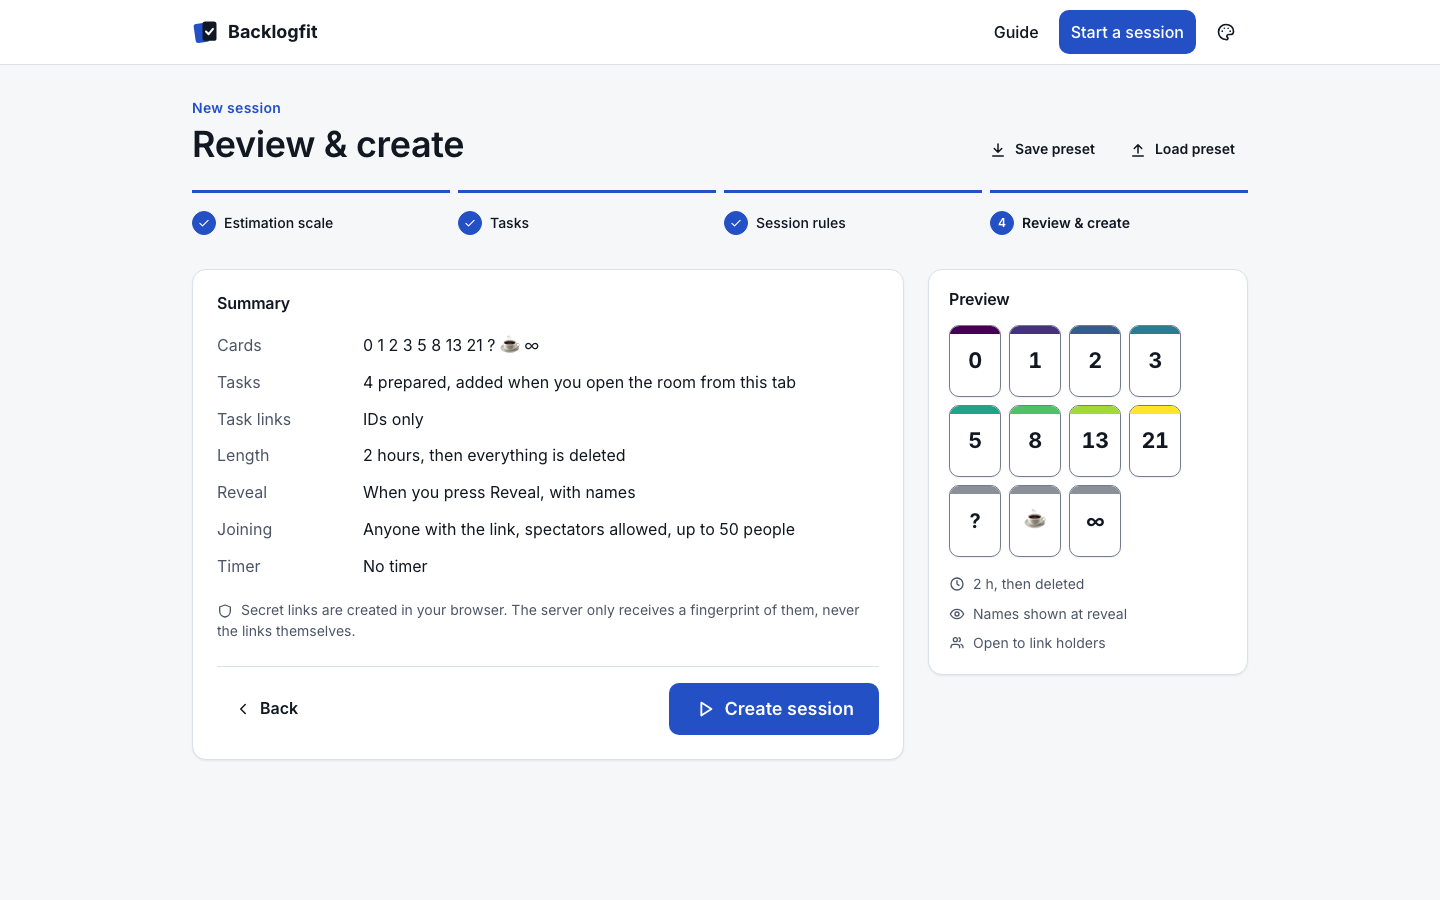
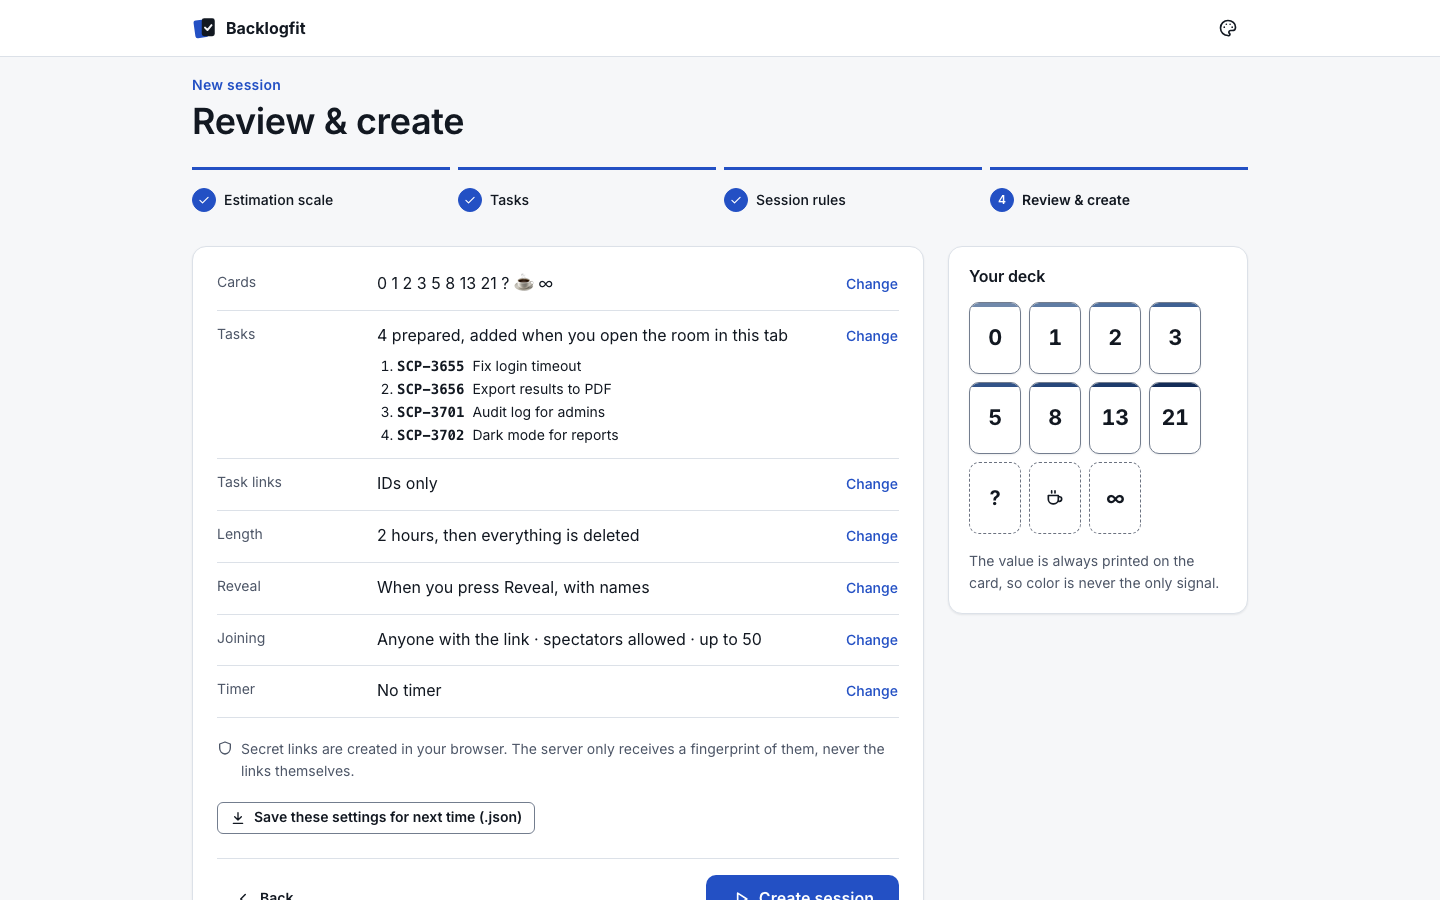
docs: refresh screenshots and the Manager Guide for the new room

diff --git a/apps/web/src/lib/components/RevealPanel.svelte b/apps/web/src/lib/components/RevealPanel.svelte
@@ -176,6 +176,7 @@
 
   .group {
     display: grid;
+    align-content: start;
     justify-items: center;
     gap: var(--space-2);
     max-width: 10rem;
@@ -238,15 +239,15 @@
   }
 
   .cards li.group:nth-child(2) :global(.inner) {
-    transition-delay: 40ms;
+    transition-delay: calc(40ms * var(--lift));
   }
 
   .cards li.group:nth-child(3) :global(.inner) {
-    transition-delay: 80ms;
+    transition-delay: calc(80ms * var(--lift));
   }
 
   .cards li.group:nth-child(n + 4) :global(.inner) {
-    transition-delay: 120ms;
+    transition-delay: calc(120ms * var(--lift));
   }
 
   .grid {

diff --git a/docs/MANAGER-GUIDE.md b/docs/MANAGER-GUIDE.md
@@ -1,6 +1,6 @@
 # Backlogfit Manager Guide
 
-*One page for facilitators: Scrum Masters, team leads, product owners. Print-friendly.*
+*One page for hosts: Scrum Masters, team leads, product owners. Print-friendly.*
 
 ## What are story points?
 
@@ -23,28 +23,36 @@ understand an item differently, which is the most valuable outcome of the discus
 2. **Start a session and pick a scale.** Open Backlogfit and choose **Start a session**. Pick a
    deck: Fibonacci is a good default, T-shirt sizes suit rough roadmap sizing.
 3. **Paste the tasks and set the session rules.** In the **Tasks** step, paste the list from
-   step 1 and drag it into the order you want to discuss it. Under **Task IDs and links** you can
-   choose how tasks may appear (IDs only, any links, or only your own tracker domains). Then set
-   the session length, timer, automatic reveal, anonymous
-   results, spectators, approval before joining, and an optional passcode. Review and press
-   **Create session**. You can save these settings as a preset file for next time.
+   step 1. Every line becomes a task right away; drag them into the order you want to discuss
+   them, and fix or remove any line marked in red. Under **Task IDs and links** you can choose how
+   tasks may appear (IDs only, any links, or only your own tracker domains). Then set the
+   session length, automatic reveal and anonymous results. **More options** holds approval
+   before joining, a passcode, spectators, the maximum number of people, the round timer and the
+   color style. On the review page, **Change** takes you back to any step; press **Create
+   session**. **Save these settings for next time** downloads them as a file, and **Use settings
+   from a file…** on the first step loads it again.
 4. **Keep the host link.** Backlogfit shows it once. Keep it private: it gives full control of the
-   session and lets you switch devices.
+   session and lets you switch devices. **Save host link as a file** keeps a copy on your
+   computer.
 5. **Share the join link.** Paste it in the meeting chat or show the QR code. People enter a
-   display name and join as voters or spectators. Then **Open the room**.
-6. **Introduce the first item.** Your prepared list is already in the room. Press **Start first
-   task**; the product owner explains it in two minutes; optionally start the timer. **Next task**
-   follows your order and skips items that already have an estimate. To change course, press ▶
-   next to any task, drag tasks into a new order, or use **Add and estimate now** for an item
-   that comes up in the discussion.
+   display name and join as voters or spectators. Then **Open the room** in the same browser tab:
+   your prepared tasks are added when the room opens there, and a message confirms it.
+6. **Introduce the first item.** Your prepared list is already in the room. Press **Start
+   estimating**; the product owner explains the item in two minutes. Tasks are estimated top to
+   bottom and items that already have an estimate are skipped. To change course, press ▶ next to
+   any task, drag tasks into a new order, or use **Add and estimate now** for an item that comes
+   up in the discussion. The **⋯** menu next to **Reveal votes** starts the timer, restarts the
+   round or skips the task.
 7. **Vote.** Everyone picks a card. You see *who* has voted, never *what*, until the reveal.
 8. **Reveal.** Press **Reveal votes** (or let automatic reveal do it when everyone has voted).
    Look at the distribution, median and agreement indicator.
-9. **Discuss and vote again if needed.** If votes are split, ask the highest and lowest voters to
-   explain, then press **Vote again**; earlier rounds stay in the results.
+9. **Discuss and vote again if needed.** If the votes differ, ask the highest and lowest voter
+   why, then press **Vote again**; earlier rounds stay in the results.
 10. **Record the final estimate and move on.** Pick the final value (the suggestion is
-    preselected), press **Next task**, and at the end download the results as CSV, JSON or
-    Markdown, copy the summary, or print. Press **End session** when you are done; all its data is deleted.
+    preselected) and press **Save 5 and continue**: it saves the estimate and opens the next
+    task. At the end, use **Export** to download the results as CSV, Markdown or JSON, copy the
+    summary, or print. When you are done, open **Session settings…** and choose **End session
+    for everyone**; all its data is deleted.
 
 | Step 1: scale | Step 2: tasks |
 |---|---|
@@ -56,13 +64,13 @@ understand an item differently, which is the most valuable outcome of the discus
 
 ![Session ready: join link, private host link and QR code](assets/screenshots/configurator-created.png)
 
-![Host view while voting: Reveal votes, Clear votes, Next task, timer, people who voted and the task list](assets/screenshots/admin-voting.png)
+![Host view while voting: who has voted, Reveal votes, the More actions menu, people and the task list](assets/screenshots/admin-voting.png)
 
-![Voter view after the reveal: median, distribution, agreement and the results table](assets/screenshots/reveal.png)
+![Voter view after the reveal: the cards sorted by value, median, average, range and distribution](assets/screenshots/reveal.png)
 
-![Host view after the reveal: Vote again, Next task and the final estimate picker](assets/screenshots/admin-reveal.png)
+![Host view after the reveal: the final estimate picker, Vote again and Save and continue](assets/screenshots/admin-reveal.png)
 
-![Host view with a final estimate recorded, the results table, downloads and session controls (invite, lock, add an hour, settings, end session)](assets/screenshots/results-full.png)
+![Host view with final estimates recorded, the results table with the Export menu, and the session panel (end time, +1 hour, session settings)](assets/screenshots/results-full.png)
 
 ## Tips
 
@@ -105,6 +113,7 @@ in the room, or only the distribution if anonymous reveal is on.
 Create a new room; it takes a minute.
 
 **How long can a session run?** Up to the lifetime you chose (default 2 hours, maximum 8);
-extend it from the facilitator menu. Rooms close after 30 minutes without activity.
+add an hour with **+1 hour** in the Session panel. Lock the session and end it from **Session
+settings…**. Rooms close after 30 minutes without activity.
 
 More answers: [FAQ](FAQ.md).

diff --git a/README.md b/README.md
@@ -21,9 +21,9 @@ with one container.
 |---|---|
 | ![A voter choosing a card from the Fibonacci deck while the participant list shows who has voted](docs/assets/screenshots/voter.png) | ![Revealed votes with distribution, median and consensus indicator](docs/assets/screenshots/reveal.png) |
 
-| Room created | Facilitator controls |
+| Room created | Host controls |
 |---|---|
-| ![A newly created room showing the join link, the one-time admin link and a QR code](docs/assets/screenshots/configurator-created.png) | ![The facilitator view while the team is voting, with reveal, re-vote, timer and next task](docs/assets/screenshots/admin-voting.png) |
+| ![A newly created room showing the join link, the one-time host link and a QR code](docs/assets/screenshots/configurator-created.png) | ![The host view while the team is voting, with progress, Reveal votes and the More actions menu](docs/assets/screenshots/admin-voting.png) |
 
 More screenshots (configurator steps, results, landing page) are in
 [docs/assets/screenshots](docs/assets/screenshots/) and the [Manager Guide](docs/MANAGER-GUIDE.md).
